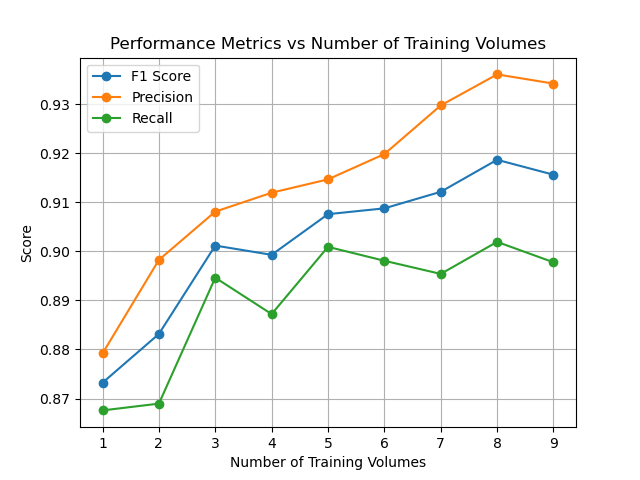
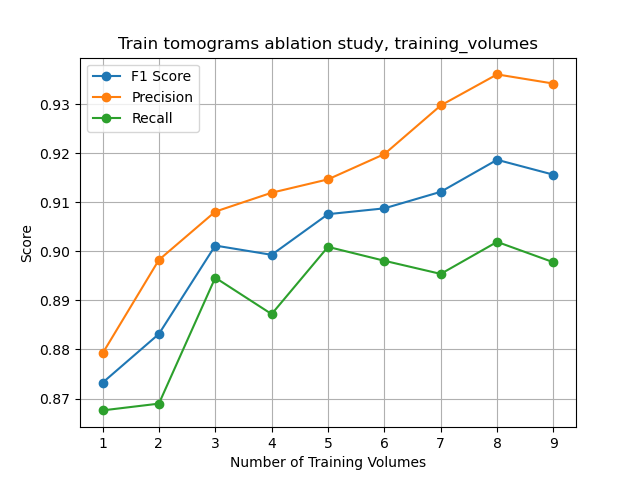
upload final experiment results

Changed region(s): [[0.1562, 0.0625, 0.8438, 0.125]]

diff --git a/plots_for_thesis.py b/plots_for_thesis.py
@@ -185,19 +185,21 @@ def plot_noise_levels():
 
 
 def plot_training_volumes():
-    df = pd.read_csv(os.path.join(results_folder, "training_volumes.txt"))
+    models = ["training_volumes", "training_volumes_0dB", "training_volumes_shrec_reconstruction"]
 
-    plt.plot(df['num_training_volumes'], df['avg_f1_score'], marker='o', label='F1 Score')
-    plt.plot(df['num_training_volumes'], df['avg_precision'], marker='o', label='Precision')
-    plt.plot(df['num_training_volumes'], df['avg_recall'], marker='o', label='Recall')
+    for model in models:
+        df = pd.read_csv(os.path.join(results_folder, f"{model}.txt"))
+        plt.plot(df['num_training_volumes'], df['avg_f1_score'], marker='o', label='F1 Score')
+        plt.plot(df['num_training_volumes'], df['avg_precision'], marker='o', label='Precision')
+        plt.plot(df['num_training_volumes'], df['avg_recall'], marker='o', label='Recall')
 
-    plt.xlabel("Number of Training Volumes")
-    plt.ylabel("Score")
-    plt.title("Performance Metrics vs Number of Training Volumes")
-    plt.legend()
-    plt.grid(True)
-    plt.savefig(os.path.join(save_folder, "training_volumes.png"))
-    plt.close()
+        plt.xlabel("Number of Training Volumes")
+        plt.ylabel("Score")
+        plt.title(f"Train tomograms ablation study, {model}")
+        plt.legend()
+        plt.grid(True)
+        plt.savefig(os.path.join(save_folder, f"{model}.png"))
+        plt.close()
 
 
 def main():
